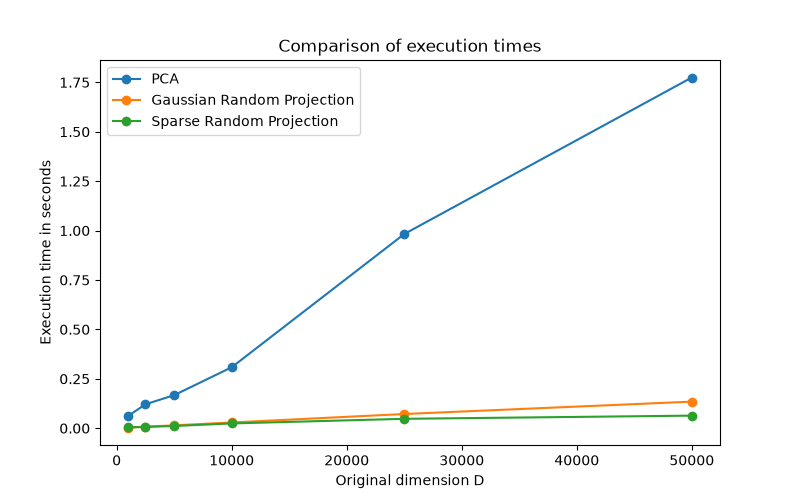
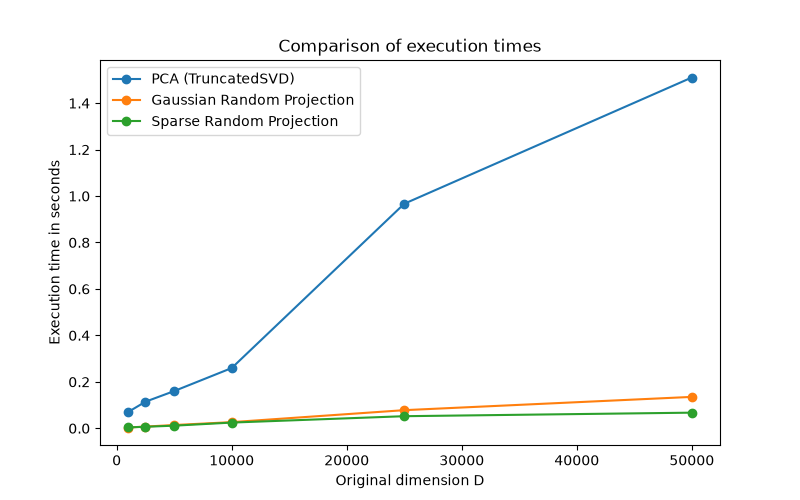
Update plot label for PCA in experience_2 for clarity

diff --git a/main.py b/main.py
@@ -87,7 +87,7 @@ def experience_2(X_sparse):
         times['Sparse'].append(time_Sparse)
 
     plt.figure(figsize=(8, 5))
-    plt.plot(D_values, times['PCA (TruncatedSVD)'], label='PCA', marker='o')
+    plt.plot(D_values, times['PCA'], label='PCA (TruncatedSVD)', marker='o')
     plt.plot(D_values, times['Gaussian'], label='Gaussian Random Projection', marker='o')
     plt.plot(D_values, times['Sparse'], label='Sparse Random Projection', marker='o')
     plt.xlabel('Original dimension D')
